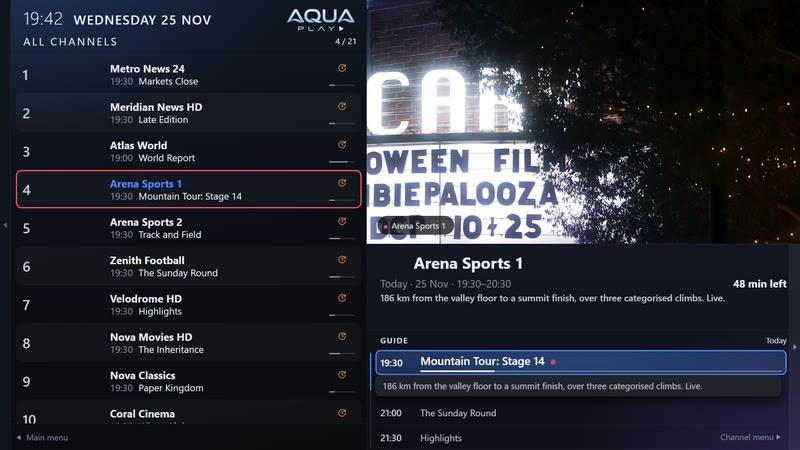
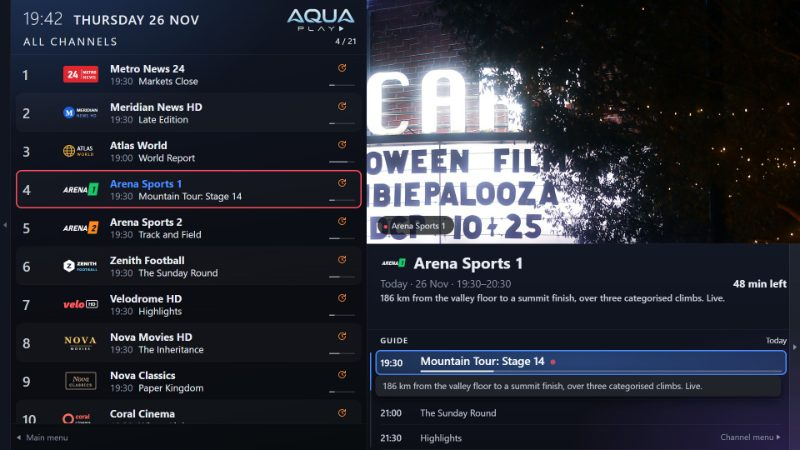
aquaplay.live: new app screenshots, the .wgt downloads directly, more questions
- Feature cards: the guide with channel logos, catch-up with every day
  down the left and the channel playing, the film's own page, and the
  subtitle Style menu.
- Samsung page: the .wgt buttons download the latest file straight away
  (the release page if GitHub does not answer).
- 17 common questions (playlists, providers, Premium, data, updates, help).
- Entrance animations let go once done (a button could vanish on phones).

diff --git a/index.html b/index.html
@@ -124,22 +124,22 @@ if (/^#[a-z]=/.test(location.hash)) location.replace('pair.html' + location.sear
     </div>
     <div class="cards">
       <div class="card" style="--c:var(--blue)"><span class="blob" aria-hidden="true"></span>
-        <img class="shot" src="img/g/03-schedule-800.jpg" srcset="img/g/03-schedule-800.jpg 800w, img/g/03-schedule-1280.jpg 1280w" sizes="(max-width: 900px) 92vw, 560px" alt="The guide in AquaPlay" width="1920" height="1080" loading="lazy" decoding="async">
+        <img class="shot" src="img/g/03-schedule-800.jpg" srcset="img/g/03-schedule-800.jpg 800w, img/g/03-schedule-1280.jpg 1280w" sizes="(max-width: 900px) 92vw, 560px" alt="The channel list with logos and the guide beside the picture" width="1920" height="1080" loading="lazy" decoding="async">
         <h3>Live TV and the full guide</h3>
         <p>A grid guide beside the picture, search and reminders, favourites, and your own channel order and numbers.</p>
       </div>
       <div class="card" style="--c:var(--sky)"><span class="blob" aria-hidden="true"></span>
-        <img class="shot" src="img/g/05-catch-up-800.jpg" srcset="img/g/05-catch-up-800.jpg 800w, img/g/05-catch-up-1280.jpg 1280w" sizes="(max-width: 900px) 92vw, 560px" alt="Catch-up in AquaPlay" width="1920" height="1080" loading="lazy" decoding="async">
+        <img class="shot" src="img/g/05-catch-up-800.jpg" srcset="img/g/05-catch-up-800.jpg 800w, img/g/05-catch-up-1280.jpg 1280w" sizes="(max-width: 900px) 92vw, 560px" alt="Catch-up in AquaPlay: every day the provider keeps, down the left" width="1920" height="1080" loading="lazy" decoding="async">
         <h3>Catch-up and rewind</h3>
         <p>Replay shows from up to 14 days back, start over a show that is on now, and rewind live TV, where your provider keeps it.</p>
       </div>
       <div class="card" style="--c:var(--teal)"><span class="blob" aria-hidden="true"></span>
-        <img class="shot" src="img/g/99-film-paused-800.jpg" srcset="img/g/99-film-paused-800.jpg 800w, img/g/99-film-paused-1280.jpg 1280w" sizes="(max-width: 900px) 92vw, 560px" alt="A film paused in AquaPlay" width="1920" height="1080" loading="lazy" decoding="async">
+        <img class="shot" src="img/g/122-film-details-800.jpg" srcset="img/g/122-film-details-800.jpg 800w, img/g/122-film-details-1280.jpg 1280w" sizes="(max-width: 900px) 92vw, 560px" alt="A film's own page in AquaPlay: story, cast and Play" width="1920" height="1080" loading="lazy" decoding="async">
         <h3>Films and series</h3>
         <p>Story, cast and a row of episodes on a page of their own. Simkl marks what you finish; TheIntroDB skips the intro.</p>
       </div>
       <div class="card" style="--c:var(--blue)"><span class="blob" aria-hidden="true"></span>
-        <img class="shot" src="img/g/93-subtitles-found-online-800.jpg" srcset="img/g/93-subtitles-found-online-800.jpg 800w, img/g/93-subtitles-found-online-1280.jpg 1280w" sizes="(max-width: 900px) 92vw, 560px" alt="Subtitles found online in AquaPlay" width="1920" height="1080" loading="lazy" decoding="async">
+        <img class="shot" src="img/g/119-film-subtitles-menu-800.jpg" srcset="img/g/119-film-subtitles-menu-800.jpg 800w, img/g/119-film-subtitles-menu-1280.jpg 1280w" sizes="(max-width: 900px) 92vw, 560px" alt="The subtitle style menu in AquaPlay: size, colour, height, outline and background, with a preview line" width="1920" height="1080" loading="lazy" decoding="async">
         <h3>Subtitles in your language</h3>
         <p>17 languages, Hebrew and Arabic right to left. Live channels and films switch subtitles on in yours by themselves.</p>
       </div>
@@ -209,16 +209,56 @@ if (/^#[a-z]=/.test(location.hash)) location.replace('pair.html' + location.sear
         <p>No. AquaPlay is a player only. It plays the playlist you bring from your own provider: an M3U link or file, an Xtream Codes login, or a Stalker/MAG portal.</p>
       </details>
       <details>
-        <summary>Is it free?<svg viewBox="0 0 24 24" fill="none" stroke="currentColor" stroke-width="1.5" stroke-linecap="round" aria-hidden="true"><circle cx="12" cy="12" r="9"/><path d="M12 8v8M8 12h8"/></svg></summary>
-        <p>On Samsung, yes, with every feature. On Android TV, watching with one playlist is free. Premium is bought in the app on Google Play, or <a class="inline" href="#premium">here</a> for the APK: $25 once.</p>
+        <summary>Where do I get a playlist?<svg viewBox="0 0 24 24" fill="none" stroke="currentColor" stroke-width="1.5" stroke-linecap="round" aria-hidden="true"><circle cx="12" cy="12" r="9"/><path d="M12 8v8M8 12h8"/></svg></summary>
+        <p>AquaPlay doesn't provide one. Use the M3U link, Xtream Codes login or Stalker/MAG portal from your own provider, or your own files.</p>
+      </details>
+      <details>
+        <summary>What's an M3U, Xtream or Stalker playlist?<svg viewBox="0 0 24 24" fill="none" stroke="currentColor" stroke-width="1.5" stroke-linecap="round" aria-hidden="true"><circle cx="12" cy="12" r="9"/><path d="M12 8v8M8 12h8"/></svg></summary>
+        <p>Three ways providers hand out channels. <b>M3U</b> is a link or a file that lists every channel. <b>Xtream Codes</b> is a server address with a user name and password. <b>Stalker/MAG</b> is a portal address that knows your TV by its MAC address. AquaPlay plays all three.</p>
+      </details>
+      <details>
+        <summary>Does it work with my provider?<svg viewBox="0 0 24 24" fill="none" stroke="currentColor" stroke-width="1.5" stroke-linecap="round" aria-hidden="true"><circle cx="12" cy="12" r="9"/><path d="M12 8v8M8 12h8"/></svg></summary>
+        <p>If your provider gives you an M3U link, an Xtream Codes login or a Stalker/MAG portal, yes.</p>
+      </details>
+      <details>
+        <summary>Do I need an account to use AquaPlay?<svg viewBox="0 0 24 24" fill="none" stroke="currentColor" stroke-width="1.5" stroke-linecap="round" aria-hidden="true"><circle cx="12" cy="12" r="9"/><path d="M12 8v8M8 12h8"/></svg></summary>
+        <p>No. Your playlist goes from your phone to your TV, and nowhere else.</p>
+      </details>
+      <details>
+        <summary>Can I use AquaPlay for free?<svg viewBox="0 0 24 24" fill="none" stroke="currentColor" stroke-width="1.5" stroke-linecap="round" aria-hidden="true"><circle cx="12" cy="12" r="9"/><path d="M12 8v8M8 12h8"/></svg></summary>
+        <p>Yes. On Samsung TVs every feature is free. On Android TV, Google TV and the APK, watching with one playlist is free, with the full guide, catch-up from the last day, films and series, and subtitles. Premium adds more playlists, recording, multi-view, profiles and more.</p>
+      </details>
+      <details>
+        <summary>What does Premium cost, and is it a subscription?<svg viewBox="0 0 24 24" fill="none" stroke="currentColor" stroke-width="1.5" stroke-linecap="round" aria-hidden="true"><circle cx="12" cy="12" r="9"/><path d="M12 8v8M8 12h8"/></svg></summary>
+        <p>$25 once, for good, for the AquaPlay APK. It isn't a subscription: nothing renews.</p>
+      </details>
+      <details>
+        <summary>Which Premium do I get on my TV?<svg viewBox="0 0 24 24" fill="none" stroke="currentColor" stroke-width="1.5" stroke-linecap="round" aria-hidden="true"><circle cx="12" cy="12" r="9"/><path d="M12 8v8M8 12h8"/></svg></summary>
+        <p>It depends on where AquaPlay came from. On a Samsung TV, every feature is free, so there is nothing to buy. Installed from Google Play, you buy Premium inside the app, through Google Play. Installed as the APK from this website (Fire TV and other boxes), you buy it <a class="inline" href="#premium">here</a>: $25 once.</p>
       </details>
       <details>
         <summary>Which TVs does it run on?<svg viewBox="0 0 24 24" fill="none" stroke="currentColor" stroke-width="1.5" stroke-linecap="round" aria-hidden="true"><circle cx="12" cy="12" r="9"/><path d="M12 8v8M8 12h8"/></svg></summary>
-        <p>Samsung TVs from 2017 (Tizen 3.0 or later), and Android TV and Google TV sets and boxes.</p>
+        <p>Samsung TVs from 2017 (Tizen 3.0 or later), Android TV and Google TV sets and boxes, and Fire TV and other boxes with the APK.</p>
+      </details>
+      <details>
+        <summary>Is it safe to install on my Samsung TV?<svg viewBox="0 0 24 24" fill="none" stroke="currentColor" stroke-width="1.5" stroke-linecap="round" aria-hidden="true"><circle cx="12" cy="12" r="9"/><path d="M12 8v8M8 12h8"/></svg></summary>
+        <p>Yes. Apps2Samsung installs AquaPlay like any developer's app. Apart from Developer mode, nothing on the TV changes, and you can delete AquaPlay at any time like any other app.</p>
+      </details>
+      <details>
+        <summary>Do I need a remote with number keys?<svg viewBox="0 0 24 24" fill="none" stroke="currentColor" stroke-width="1.5" stroke-linecap="round" aria-hidden="true"><circle cx="12" cy="12" r="9"/><path d="M12 8v8M8 12h8"/></svg></summary>
+        <p>No. AquaPlay is built for remotes with and without number keys: everything works with the arrows and OK.</p>
       </details>
       <details>
         <summary>Is my playlist safe?<svg viewBox="0 0 24 24" fill="none" stroke="currentColor" stroke-width="1.5" stroke-linecap="round" aria-hidden="true"><circle cx="12" cy="12" r="9"/><path d="M12 8v8M8 12h8"/></svg></summary>
-        <p>You add it from your phone, and it is encrypted on the phone before anything leaves it. Only your TV can read it.</p>
+        <p>Yes. You add it from your phone, and it is encrypted on the phone before anything leaves it. Only your TV can read it.</p>
+      </details>
+      <details>
+        <summary>Does AquaPlay collect my data?<svg viewBox="0 0 24 24" fill="none" stroke="currentColor" stroke-width="1.5" stroke-linecap="round" aria-hidden="true"><circle cx="12" cy="12" r="9"/><path d="M12 8v8M8 12h8"/></svg></summary>
+        <p>No. Your playlists and what you watch stay on your TV: we don't log, track or upload them. The details are in the <a class="inline" href="privacy.html">Privacy policy</a>.</p>
+      </details>
+      <details>
+        <summary>Is AquaPlay legal?<svg viewBox="0 0 24 24" fill="none" stroke="currentColor" stroke-width="1.5" stroke-linecap="round" aria-hidden="true"><circle cx="12" cy="12" r="9"/><path d="M12 8v8M8 12h8"/></svg></summary>
+        <p>Yes. AquaPlay is a media player only. It doesn't provide, host or sell channels, films or playlists; you play your own, legally acquired content.</p>
       </details>
       <details>
         <summary>Which languages does it speak?<svg viewBox="0 0 24 24" fill="none" stroke="currentColor" stroke-width="1.5" stroke-linecap="round" aria-hidden="true"><circle cx="12" cy="12" r="9"/><path d="M12 8v8M8 12h8"/></svg></summary>
@@ -227,6 +267,14 @@ if (/^#[a-z]=/.test(location.hash)) location.replace('pair.html' + location.sear
           <li>English</li><li>Spanish</li><li>French</li><li>German</li><li>Portuguese (Brazil)</li><li>Italian</li><li>Polish</li><li>Russian</li><li>Hindi</li>
           <li>Japanese</li><li>Korean</li><li>Hebrew</li><li>Arabic</li><li>Chinese (Simplified)</li><li>Turkish</li><li>Finnish</li><li>Vietnamese</li>
         </ul>
+      </details>
+      <details>
+        <summary>How do I update?<svg viewBox="0 0 24 24" fill="none" stroke="currentColor" stroke-width="1.5" stroke-linecap="round" aria-hidden="true"><circle cx="12" cy="12" r="9"/><path d="M12 8v8M8 12h8"/></svg></summary>
+        <p>On Samsung, AquaPlay tells you when a new version is out and, from 1.0.54, updates itself. On Google Play, the Play Store updates it as usual. For the APK, download the <a class="inline" href="https://github.com/AquaPlayIPTV/aquaplay-android/releases/latest/download/AquaPlay.apk">new AquaPlay.apk</a> (Downloader code <code>1167505</code>) and install it over the old one; your playlists and settings stay.</p>
+      </details>
+      <details>
+        <summary>Where do I get help or report a bug?<svg viewBox="0 0 24 24" fill="none" stroke="currentColor" stroke-width="1.5" stroke-linecap="round" aria-hidden="true"><circle cx="12" cy="12" r="9"/><path d="M12 8v8M8 12h8"/></svg></summary>
+        <p>Ask on the <a class="inline" href="https://discord.gg/5A5mDrwK8w">AquaPlay Discord</a>, or open an issue on GitHub for <a class="inline" href="https://github.com/AquaPlayIPTV/aquaplay-samsung/issues">Samsung</a> or <a class="inline" href="https://github.com/AquaPlayIPTV/aquaplay-android/issues">Android</a>. When something goes wrong, the TV can show a code that opens a crash report on your phone, to send with a word about what happened.</p>
       </details>
     </div>
   </section>

diff --git a/samsung.html b/samsung.html
@@ -43,7 +43,7 @@
     <p class="lead in" style="--d:.15s">Free, with every feature, on Samsung Smart TVs from 2017 on (Tizen 3.0 or later). You install it once from your computer with Apps2Samsung.</p>
     <div class="ctas in" style="--d:.25s">
       <a class="btn btn-white" href="#install">See the five steps <svg viewBox="0 0 24 24" fill="none" stroke="currentColor" stroke-width="1.6" stroke-linecap="round" stroke-linejoin="round" aria-hidden="true"><path d="M4 12h16m0 0-6-6m6 6-6 6"/></svg></a>
-      <a class="btn btn-ghost" href="https://github.com/AquaPlayIPTV/aquaplay-samsung/releases/latest">Download AquaPlay for free (.wgt)</a>
+      <a class="btn btn-ghost" data-wgt href="https://github.com/AquaPlayIPTV/aquaplay-samsung/releases/latest">Download AquaPlay for free (.wgt)</a>
     </div>
   </section>
 
@@ -59,7 +59,7 @@
         <li><span class="n">02</span>
           <h3>Get Apps2Samsung on your computer</h3><p>Download it from <a href="https://github.com/Apps2Samsung/Apps2Samsung">github.com/Apps2Samsung/Apps2Samsung</a> and open it. It finds your TV.</p></li>
         <li><span class="n">03</span>
-          <h3>Download AquaPlay for free</h3><p>The .wgt file from the <a href="https://github.com/AquaPlayIPTV/aquaplay-samsung/releases/latest">latest release</a>.</p></li>
+          <h3>Download AquaPlay for free</h3><p>The .wgt file from the <a data-wgt href="https://github.com/AquaPlayIPTV/aquaplay-samsung/releases/latest">latest release</a>, downloaded at once.</p></li>
         <li><span class="n">04</span>
           <h3>Install it with Apps2Samsung</h3><p>Choose your TV, choose to install your own package, and pick the AquaPlay file. The first time, Apps2Samsung may ask you to sign in to a Samsung account, to make the certificate your TV needs.</p></li>
         <li><span class="n">05</span>
@@ -119,5 +119,10 @@
 <script>/* the phone menu closes after a pick, a tap outside, or Escape */
 addEventListener("click",e=>{const m=document.querySelector(".menu[open]");if(m&&(e.target.closest(".menu-panel a")||!e.target.closest(".menu")))m.open=false});
 addEventListener("keydown",e=>{const m=document.querySelector(".menu[open]");if(m&&e.key==="Escape"){m.open=false;m.querySelector("summary").focus()}});</script>
+<script>/* The .wgt itself, not the release page: on a click, ask GitHub which file the latest release holds (its name
+   carries the version) and download it; if GitHub does not answer, the link opens the release page as before. */
+document.addEventListener("click",e=>{const l=e.target.closest("[data-wgt]");if(!l||e.ctrlKey||e.metaKey||e.shiftKey)return;e.preventDefault();
+fetch("https://api.github.com/repos/AquaPlayIPTV/aquaplay-samsung/releases/latest").then(r=>r.ok?r.json():null)
+.then(j=>{const a=j&&(j.assets||[]).find(x=>/\.wgt$/i.test(x.name));location.href=a?a.browser_download_url:l.href}).catch(()=>{location.href=l.href})});</script>
 </body>
 </html>

diff --git a/aura.css b/aura.css
@@ -468,3 +468,8 @@ main { overflow-x: clip; } /* the free glows end at the screen edge, never widen
 .card .facts { margin-top: 20px; padding-top: 16px; border-top: 1px solid var(--line); font-size: 13px; letter-spacing: .02em; color: var(--ink3); }
 .where strong { font-weight: 700; color: #fff; }
 @media (max-width: 767px) { .hero .badge { width: 100%; } }
+details p code { font: 600 .95em ui-monospace, "Cascadia Mono", Consolas, monospace; color: var(--ink); }
+details p b { color: var(--ink); font-weight: 600; }
+/* The entrance runs once and then lets go (backwards, not both): an element left holding a finished animation
+   with a blur in it can vanish on some phone browsers after a jump down the page and back (owner, 26 Nov). */
+.in { animation-fill-mode: backwards; }
